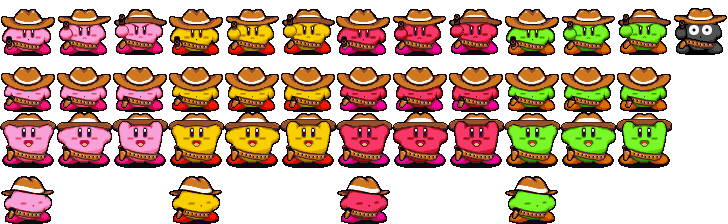
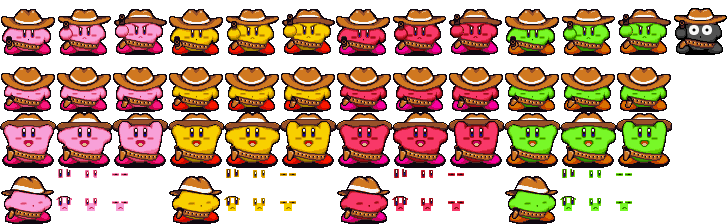
KOTD - Add facial animation classes to results-screen Kirbies

diff --git a/src/css/style.css b/src/css/style.css
@@ -1671,9 +1671,51 @@ body.round-started #samurai-kirby:not(.showing-score, .resetting) .player-status
   align-items: center;
 }
 
+.kirby-stack > .kotd-kirby::after {
+  content: '';
+  --starting-bg-x: ;
+  --starting-bg-y: ;
+  position: absolute;
+  right: calc(var(--kotd-kirby-height) / 16);
+  bottom: calc(var(--kotd-kirby-height) / 16);
+  background-image: inherit;
+  background-repeat: no-repeat !important;
+  background-size: auto 800%;
+  width: calc(var(--kotd-kirby-height) / 2);
+  height: calc(var(--kotd-kirby-height) / 2);
+  background-position-x: var(--starting-bg-x);
+  background-position-y: var(--starting-bg-y);
+}
+
+.kirby-stack > .kotd-kirby.player::after {
+  background-position-x: calc((var(--kotd-kirby-height) * -1));
+  background-position-y: calc((var(--kotd-kirby-height) * -3));
+}
+.kirby-stack > .kotd-kirby.lemon::after {
+  --starting-bg-x: calc((var(--kotd-kirby-height) * -4));
+  --starting-bg-y: calc((var(--kotd-kirby-height) * -3));
+}
+.kirby-stack > .kotd-kirby.strawberry::after {
+  --starting-bg-x: calc((var(--kotd-kirby-height) * -7));
+  --starting-bg-y: calc((var(--kotd-kirby-height) * -3));
+}
+.kirby-stack > .kotd-kirby.lime::after {
+  --starting-bg-x: calc((var(--kotd-kirby-height) * -10));
+  --starting-bg-y: calc((var(--kotd-kirby-height) * -3));
+}
+
+.kirby-stack > .kotd-kirby.blinking-1::after {
+  background-position-x: calc(var(--starting-bg-x) + (var(--kotd-kirby-height) * -0.5));
+}
+.kirby-stack > .kotd-kirby.blinking-2::after {
+  background-position-x: calc(var(--starting-bg-x) + (var(--kotd-kirby-height) * -1));
+}
+
 #kotd-results-kirby-area .kirby-stack.rank-1 .kotd-kirby {
-  background-position-x: calc(var(--spacing-x) * 2);
   background-position-y: calc(var(--spacing-y) * 2);
+}
+#kotd-results-kirby-area .kirby-stack.rank-1 .kotd-kirby::after {
+  display: none;
 }
 #kotd-results-kirby-area .kirby-stack.rank-2 .kotd-kirby {
   background-position-y: calc(var(--spacing-y) * 3);
@@ -1683,6 +1725,9 @@ body.round-started #samurai-kirby:not(.showing-score, .resetting) .player-status
 }
 #kotd-results-kirby-area .kirby-stack.rank-4 .kotd-kirby {
   background-position-y: calc(var(--spacing-y) * 3);
+}
+#kotd-results-kirby-area .kirby-stack.rank-4 .kotd-kirby::after {
+  background-position-y: calc(var(--starting-bg-y) + (var(--kotd-kirby-height) * -0.5));
 }
 
 #kotd-results-kirby-area .platform.middle {
@@ -2236,11 +2281,11 @@ body.round-started #samurai-kirby:not(.showing-score, .resetting) .player-status
 }
 
 .bullet-hole > .star.spinning {
-  rotate: -720deg;
+  rotate: -360deg;
 }
 
 .bullet-hole > .star.spinning.right {
-  rotate: 720deg;
+  rotate: 360deg;
 }
 
 .bullet-hole > .star.right {

diff --git a/src/js/KirbyOnTheDraw/Enemy.js b/src/js/KirbyOnTheDraw/Enemy.js
@@ -115,7 +115,7 @@ export default class Enemy {
 
   getRandomArcProperties() {
     let randomArcHeight = `${this.getRandomNumber(20, 100)}%`;
-    let randomSpreadDistance = `${this.getRandomNumber(50, 400)}%`;
+    let randomSpreadDistance = `${this.getRandomNumber(50, 200)}%`;
     let randomArcSpeed = `${this.getRandomNumber(800, 1300)}ms`;
     return { randomArcHeight, randomSpreadDistance, randomArcSpeed };
   }
@@ -128,17 +128,13 @@ export default class Enemy {
     holeElement.classList.add(killerType);
     holeElement.style.left = `${coords.x}px`;
     holeElement.style.top = `${coords.y}px`;
-    let starAmount = 8;
+    let starAmount = 6;
     for (let i = 0; i < starAmount; i++) {
       let starElement = document.createElement('div');
       
       let arcProperties = this.getRandomArcProperties();
 
-      // starElement.style.setProperty('--arc-height', `${80 + (i * (40/starAmount))}%`);
-      // starElement.style.setProperty('--spread-distance', `${160 + (i * (80/starAmount))}%`);
-      // // starElement.style.setProperty('--arc-speed', `${900 + (i * (200/starAmount))}ms`);
-      // starElement.style.setProperty('--arc-speed', `1000ms`);
-      if (randomInt(0,1)) {
+      if (i % 2 === 0) {
         starElement.classList.add('right');
       }
       starElement.style.setProperty('--arc-height', `${arcProperties.randomArcHeight}`);
@@ -146,9 +142,9 @@ export default class Enemy {
       starElement.style.setProperty('--arc-speed', `${arcProperties.randomArcSpeed}`);
       starElement.classList.add('star');
       holeElement.appendChild(starElement);
-      // pause(10).then(() => {
-      //   starElement.classList.add('spinning');
-      // });
+      pause(10).then(() => {
+        starElement.classList.add('spinning');
+      });
     }
 
     document.querySelector('#kotd-screen .bottom-screen').appendChild(holeElement);

diff --git a/src/js/KirbyOnTheDraw/KirbyOnTheDrawGame.js b/src/js/KirbyOnTheDraw/KirbyOnTheDrawGame.js
@@ -61,7 +61,7 @@ export default class KirbyOnTheDrawGame {
       [
         undefined,
         {
-          roundLength: 30,
+          roundLength: 2,
           groupAmount: 1,
           groupTimeGap: 180, // ms
           groupFrequency: 16, // .1s
@@ -132,7 +132,7 @@ export default class KirbyOnTheDrawGame {
         reactionSpeed: 400,
         reloadTime: 60,
         maxAmmo: 8,
-        bombAvoidance: 20,
+        bombAvoidance: 70,
       },
       {
         name: 'strawberry',
@@ -140,7 +140,7 @@ export default class KirbyOnTheDrawGame {
         reactionSpeed: 400,
         reloadTime: 60,
         maxAmmo: 8,
-        bombAvoidance: 30,
+        bombAvoidance: 80,
       },
       {
         name: 'lime',
@@ -148,7 +148,7 @@ export default class KirbyOnTheDrawGame {
         reactionSpeed: 400,
         reloadTime: 60,
         maxAmmo: 8,
-        bombAvoidance: 35,
+        bombAvoidance: 90,
       },
     ];
 
@@ -277,8 +277,7 @@ export default class KirbyOnTheDrawGame {
     newEnemy.pointValue = this.itemByAttribute('name', enemyType, this.enemyData).pointValue;
     await pause(20);
     newEnemy.container.classList.remove('obscured');
-    // await pause(300);
-    // newEnemy.container.classList.add('cpu-vulnerable');
+    // await pa .container.classList.add('cpu-vulnerable');
   }
 
   renderRanks() {

diff --git a/src/index.html b/src/index.html
@@ -167,7 +167,7 @@
       </div>
       <div class="bottom-screen full-screen-bg results-screen">
         <div class="kirby-row" id="kotd-results-kirby-area">
-          <div class="kirby-stack player rank-1">
+          <div class="kirby-stack player rank-2">
             <div class="kotd-kirby player resting">
               <div class="player-rank rank rank-1"></div>
             </div>
@@ -175,7 +175,7 @@
             <div class="platform middle"></div>
             <div class="platform bottom"></div>
           </div>
-          <div class="kirby-stack lemon rank-2">
+          <div class="kirby-stack lemon rank-1">
             <div class="kotd-kirby lemon resting">
               <div class="lemon-rank rank rank-2"></div>
             </div>
